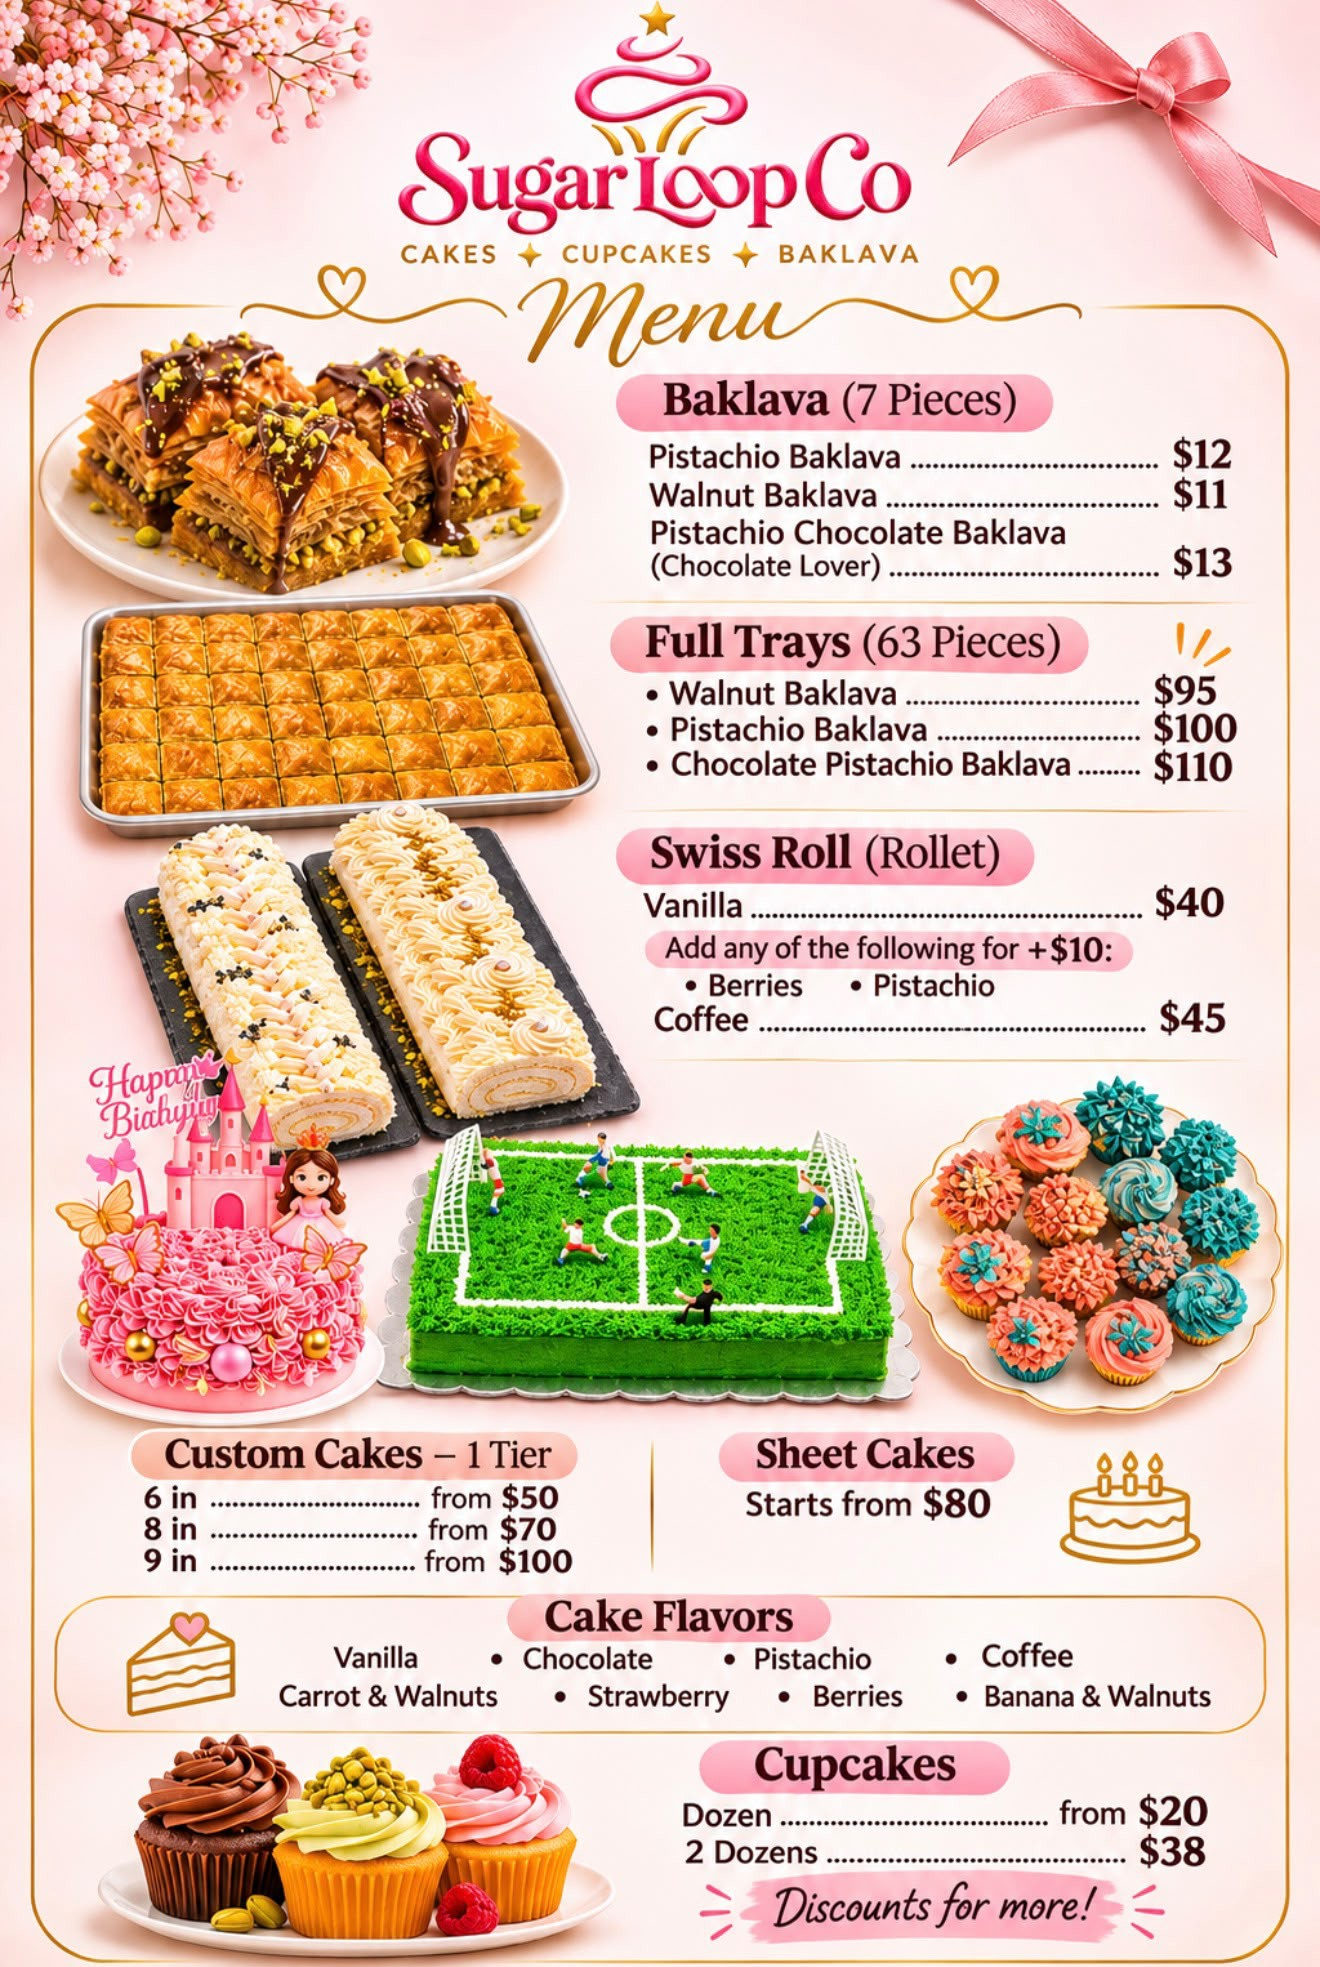
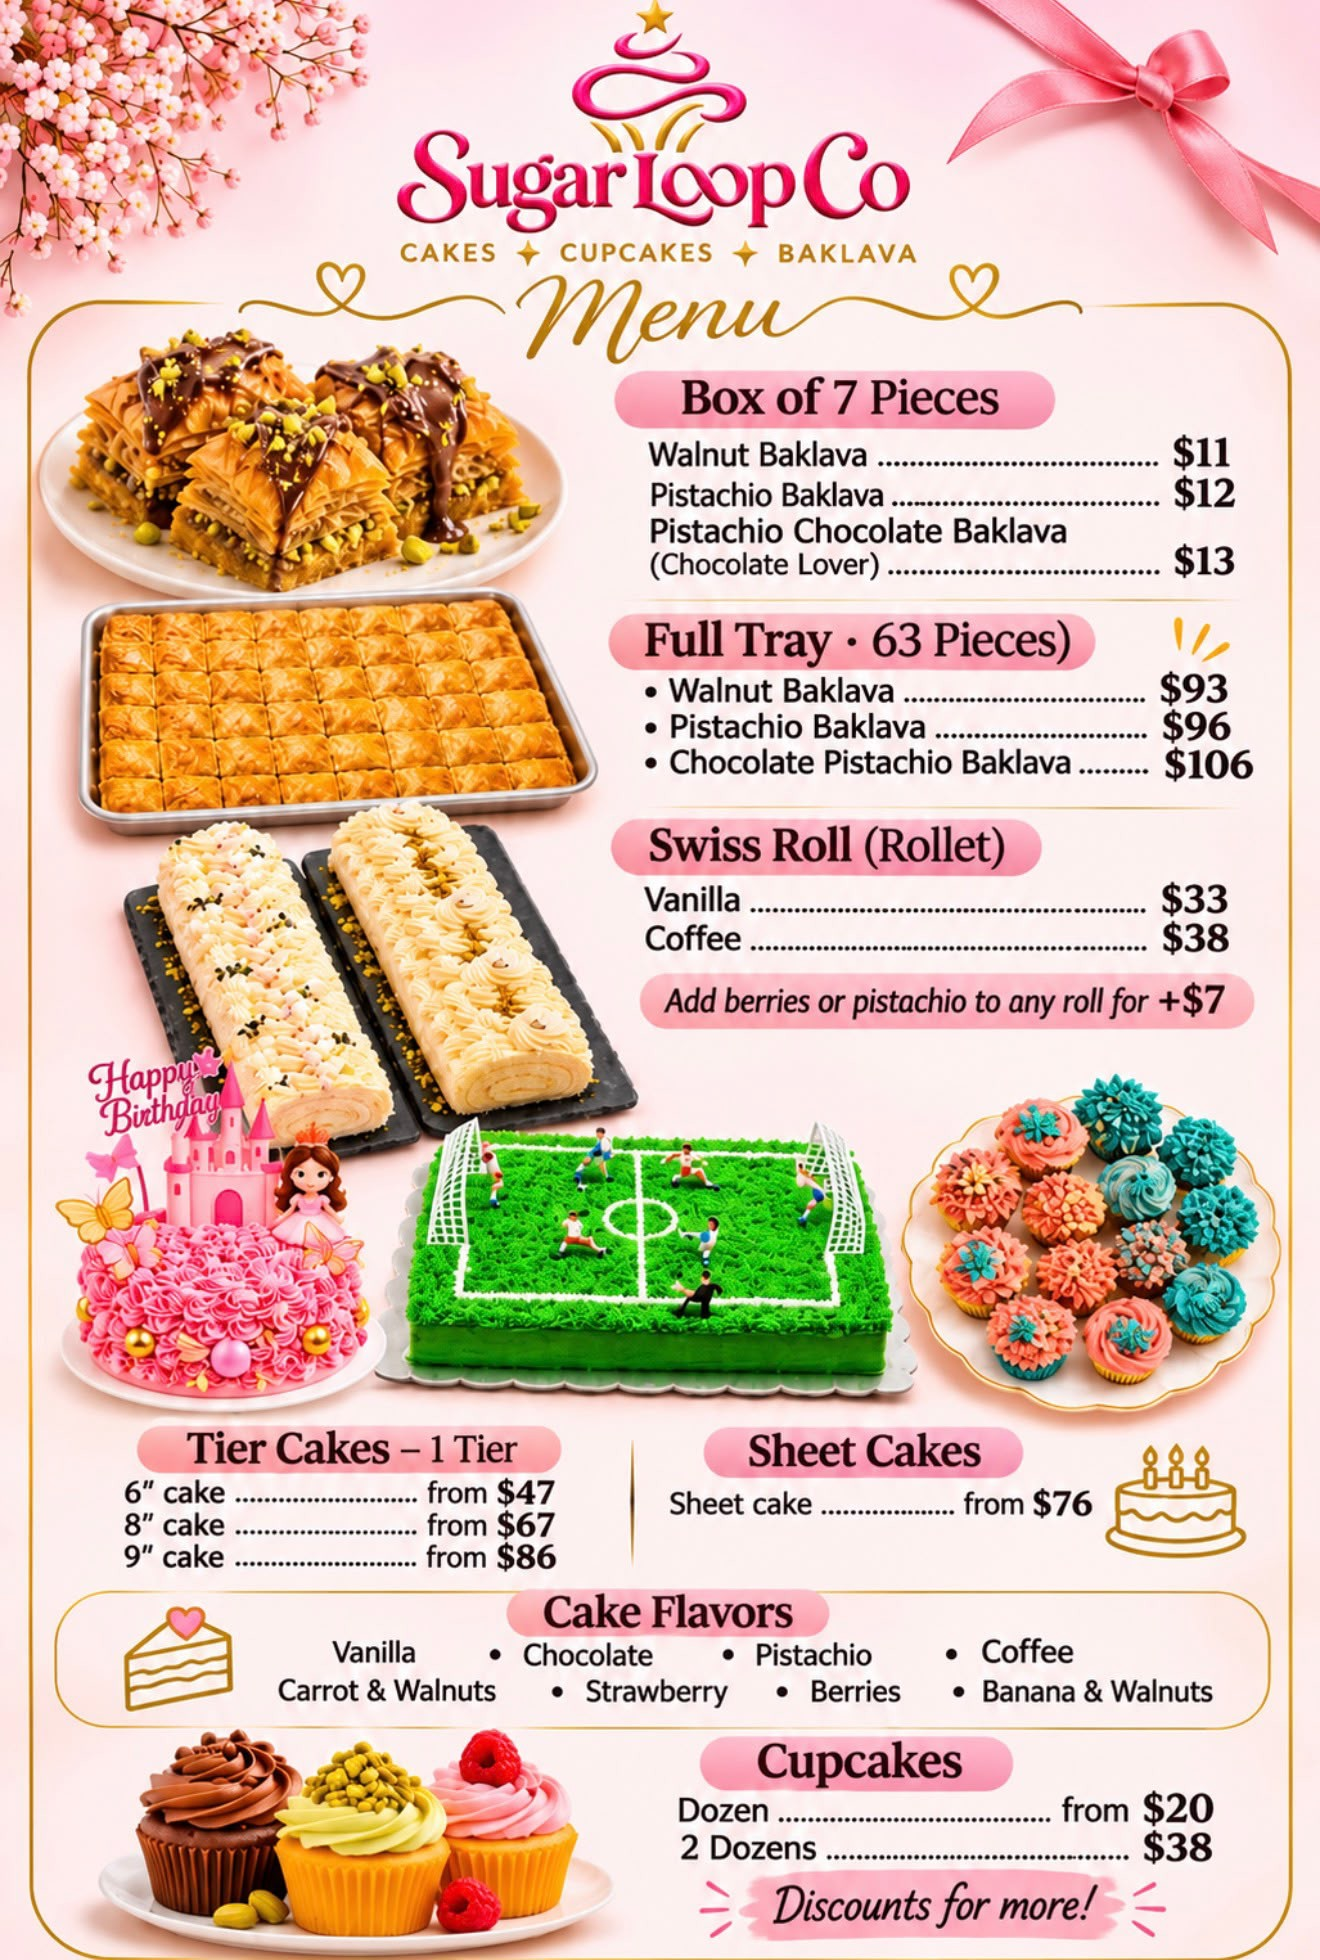
Update shareable menu picture with new prices
Claude-Session: https://claude.ai/code/session_013eVhfZhZFVxUrEwQNXGAte

diff --git a/cakes.html b/cakes.html
@@ -156,7 +156,7 @@
 
     <section class="section" id="share-menu">
       <div class="container share-menu">
-        <div class="photo share-menu-card"><img src="images/sugarloop-menu.jpg" data-full="images/full/sugarloop-menu.jpg" width="600" height="894" alt="Sugarloop Co menu with prices" loading="lazy"></div>
+        <div class="photo share-menu-card"><img src="images/sugarloop-menu.jpg?v=2" data-full="images/full/sugarloop-menu.jpg?v=2" width="600" height="891" alt="Sugarloop Co menu with prices" loading="lazy"></div>
         <div class="share-menu-body">
           <h2>Share our menu</h2>
           <p>Planning a party with friends or family? Send them our menu in a tap.</p>
@@ -166,7 +166,7 @@
             <a class="share-btn" data-share="email" href="#">Email</a>
             <a class="share-btn" data-share="whatsapp" href="#" target="_blank" rel="noopener">WhatsApp</a>
             <a class="share-btn" data-share="facebook" href="#" target="_blank" rel="noopener">Facebook</a>
-            <a class="share-btn" href="images/full/sugarloop-menu.jpg" download="Sugarloop-Co-Menu.jpg">Download</a>
+            <a class="share-btn" href="images/full/sugarloop-menu.jpg?v=2" download="Sugarloop-Co-Menu.jpg">Download</a>
             <button type="button" class="share-btn share-copy">Copy link</button>
           </div>
           <p class="share-status" aria-live="polite"></p>
@@ -198,6 +198,6 @@
     </div>
   </footer>
 
-  <script src="js/main.js?v=7"></script>
+  <script src="js/main.js?v=8"></script>
 </body>
 </html>

diff --git a/js/main.js b/js/main.js
@@ -186,7 +186,7 @@ if (zoomable.length) {
 const shareBox = document.querySelector('.share-menu');
 if (shareBox) {
   const pageUrl = 'https://www.sugarloopco.com/cakes.html';
-  const imageUrl = 'https://www.sugarloopco.com/images/full/sugarloop-menu.jpg';
+  const imageUrl = 'https://www.sugarloopco.com/images/full/sugarloop-menu.jpg?v=2';
   const message = 'Check out the Sugarloop Co menu: custom cakes, cupcakes, baklava and Swiss rolls!';
   const full = `${message} ${pageUrl}`;
   const status = shareBox.querySelector('.share-status');
@@ -207,7 +207,7 @@ if (shareBox) {
     nativeBtn.hidden = false;
     nativeBtn.addEventListener('click', async () => {
       try {
-        const blob = await fetch('images/full/sugarloop-menu.jpg').then((r) => r.blob());
+        const blob = await fetch('images/full/sugarloop-menu.jpg?v=2').then((r) => r.blob());
         const file = new File([blob], 'Sugarloop-Co-Menu.jpg', { type: 'image/jpeg' });
         if (navigator.canShare && navigator.canShare({ files: [file] })) {
           await navigator.share({ files: [file], title: 'Sugarloop Co menu', text: full });

diff --git a/index.html b/index.html
@@ -134,6 +134,6 @@
     </div>
   </footer>
 
-  <script src="js/main.js?v=7"></script>
+  <script src="js/main.js?v=8"></script>
 </body>
 </html>

diff --git a/order.html b/order.html
@@ -104,6 +104,6 @@
     </div>
   </footer>
 
-  <script src="js/main.js?v=7"></script>
+  <script src="js/main.js?v=8"></script>
 </body>
 </html>

diff --git a/about.html b/about.html
@@ -92,6 +92,6 @@
     </div>
   </footer>
 
-  <script src="js/main.js?v=7"></script>
+  <script src="js/main.js?v=8"></script>
 </body>
 </html>

diff --git a/thanks.html b/thanks.html
@@ -63,6 +63,6 @@
     </div>
   </footer>
 
-  <script src="js/main.js?v=7"></script>
+  <script src="js/main.js?v=8"></script>
 </body>
 </html>
